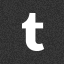
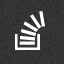
Add link to Stack Overflow profile

Changed region(s): [[0.2188, 0.1562, 0.7188, 0.8125]]

diff --git a/index.html b/index.html
@@ -51,6 +51,11 @@ description: Eric has 20 years of experience in full-stack website development, 
       <a href="http://tumblr.ericcarlisle.com/">
         <img src="/img/tumblr-icon.png" alt="My Tumblr Page" title="My Tumblr Page" />
       </a>
+
+      <a href="http://stackoverflow.com/users/1165150/eric-carlisle/">
+        <img src="/img/stack-overflow-icon.png" alt="My Stack Overflow Profile" title="My Stack Overflow Profile" />
+      </a>
+
       <!--
       <a href="{{ "/feed.xml" | prepend: site.baseurl }}">
         <img src="/img/rss-icon.png" alt="RSS Feed" title="RSS Feed" />
